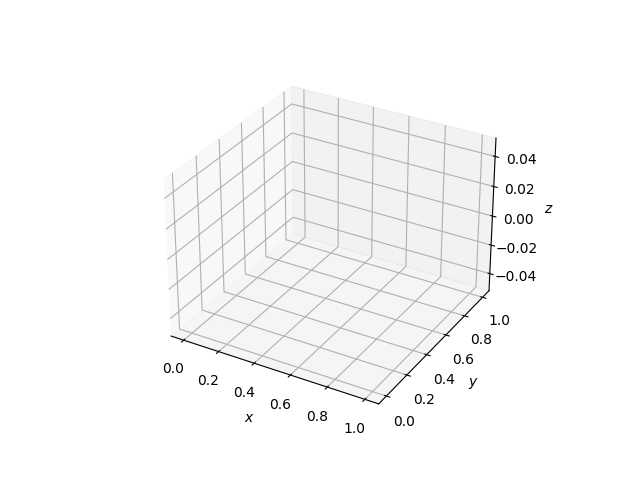
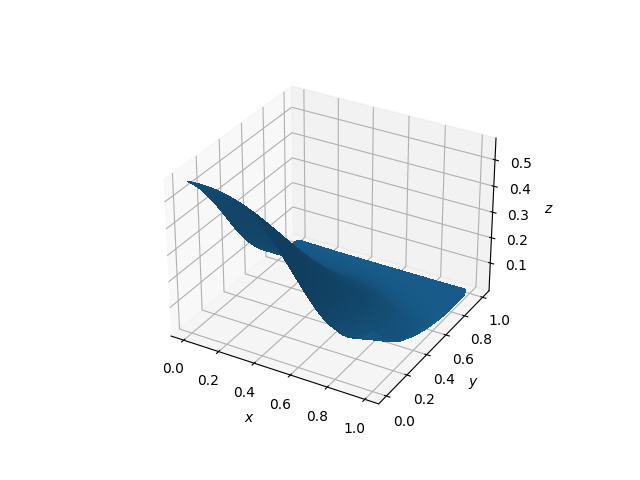
empty was not a good init method. zeros works better, and now we've got Franke results

diff --git a/src/ffnn.py b/src/ffnn.py
@@ -38,6 +38,8 @@ class FFNN:
             Activation function. The default is utils.sigmoid.
         cost_function : function
             The cost function of the network. The default is utils.quadratic_cost_function.
+        last_layer_activation_function : function
+            Optional differing activation function for the last layer. The default is the same as activation_function.
         """
         
         # variables
@@ -46,7 +48,7 @@ class FFNN:
         self.epochs = epochs
         self.batch_size = batch_size
         self.eta = eta
-        self.activation_function = np.vectorize(activation_function)
+        self.activation_function = activation_function
         self.cost_function = cost_function
         self.last_layer_activation_function = last_layer_activation_function if last_layer_activation_function else activation_function
               
@@ -117,8 +119,8 @@ class FFNN:
                 # Pretty progress indicator
                 print(f"\033[A\nTraining epoch {epoch+1} of {self.epochs}: {round((i+1)/len(mini_batches)*100,1)}%", end="")
 
-                sum_nabla_b = [np.empty(b.shape) for b in self.biases]
-                sum_nabla_w = [np.empty(w.shape) for w in self.weights]
+                sum_nabla_b = [np.zeros(b.shape) for b in self.biases]
+                sum_nabla_w = [np.zeros(w.shape) for w in self.weights]
                 
                 for X, y in mini_batch:
                     nabla_b, nabla_w = self.backpropagate(X, y)
@@ -134,8 +136,8 @@ class FFNN:
     
     def backpropagate(self, X, y):
         """Considers the single input-output pair X and y, and returns the gradient using the backpropagation algorithm."""
-        nabla_b = [np.empty(b.shape) for b in self.biases]
-        nabla_w = [np.empty(w.shape) for w in self.weights]
+        nabla_b = [np.zeros(b.shape) for b in self.biases]
+        nabla_w = [np.zeros(w.shape) for w in self.weights]
         
         activations, weighted_inputs = self.feed_forward(X, include_weighted_inputs=True)
         

diff --git a/src/franke_results/franke_predict.py b/src/franke_results/franke_predict.py
@@ -13,7 +13,7 @@ from ffnn import FFNN
 
 out_dir = "../../doc/assets/"
 
-N = 50
+N = 100
 deg = 8
 x = np.linspace(0, 1, N); y = np.linspace(0, 1, N)
 x, y = np.meshgrid(x, y)
@@ -28,7 +28,7 @@ if load_pickle:
         nn = pickle.load(f)
 else:
     do_pickle = input("Pickle the neural network (y/n)? ") == "y"
-    nn = FFNN([X.shape[1], 60, 10, 1], epochs=5)
+    nn = FFNN([X.shape[1], 50, 1], epochs=20)
     nn.SGD_train(list(zip(X_train, y_train)))
 
     if do_pickle:
